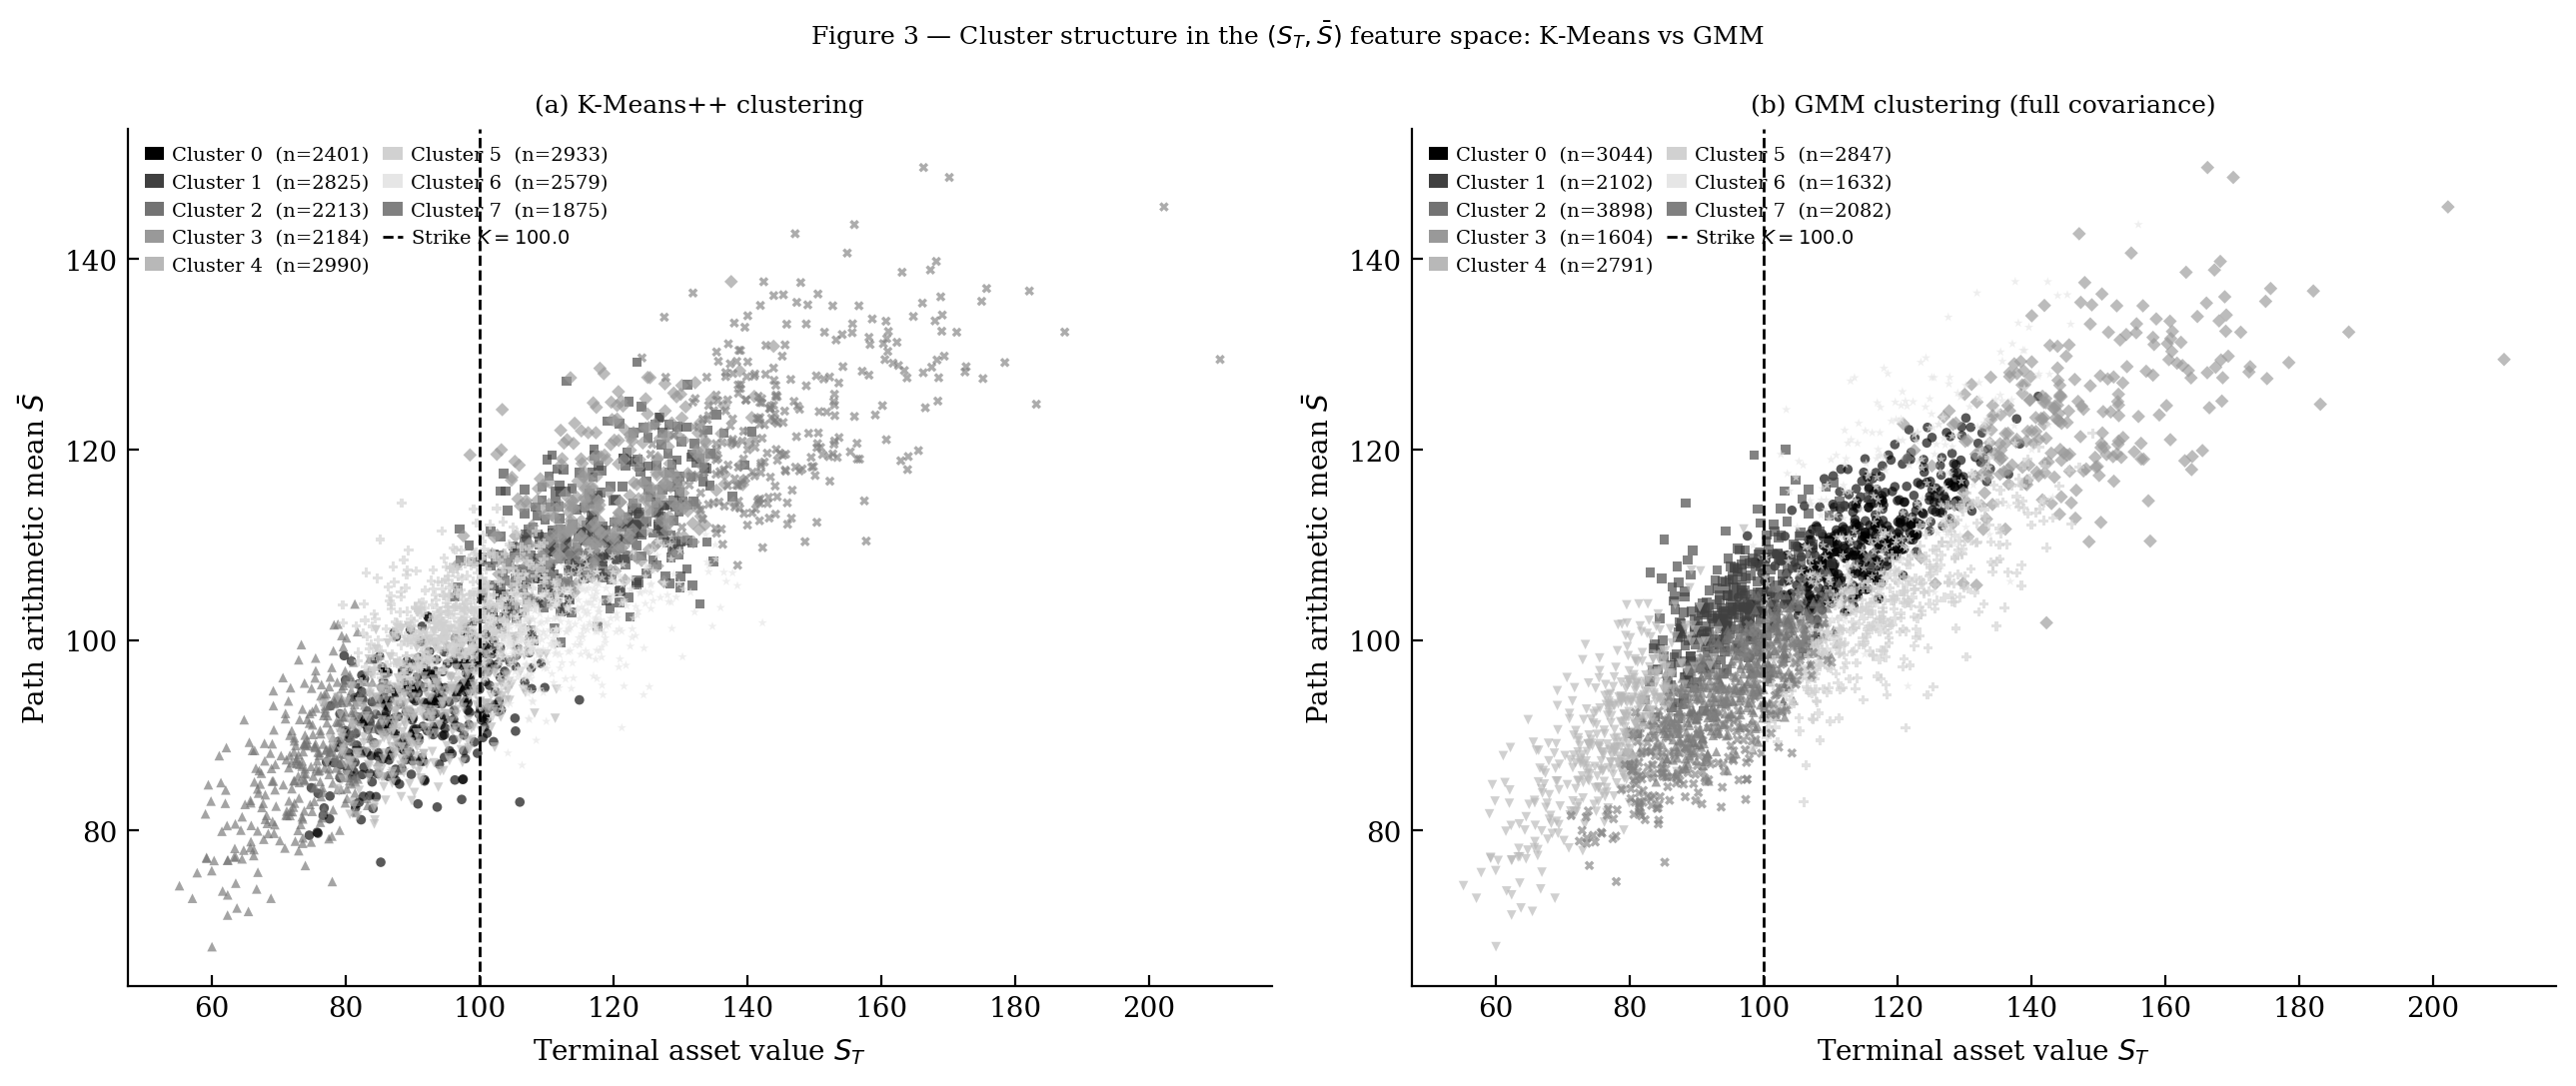
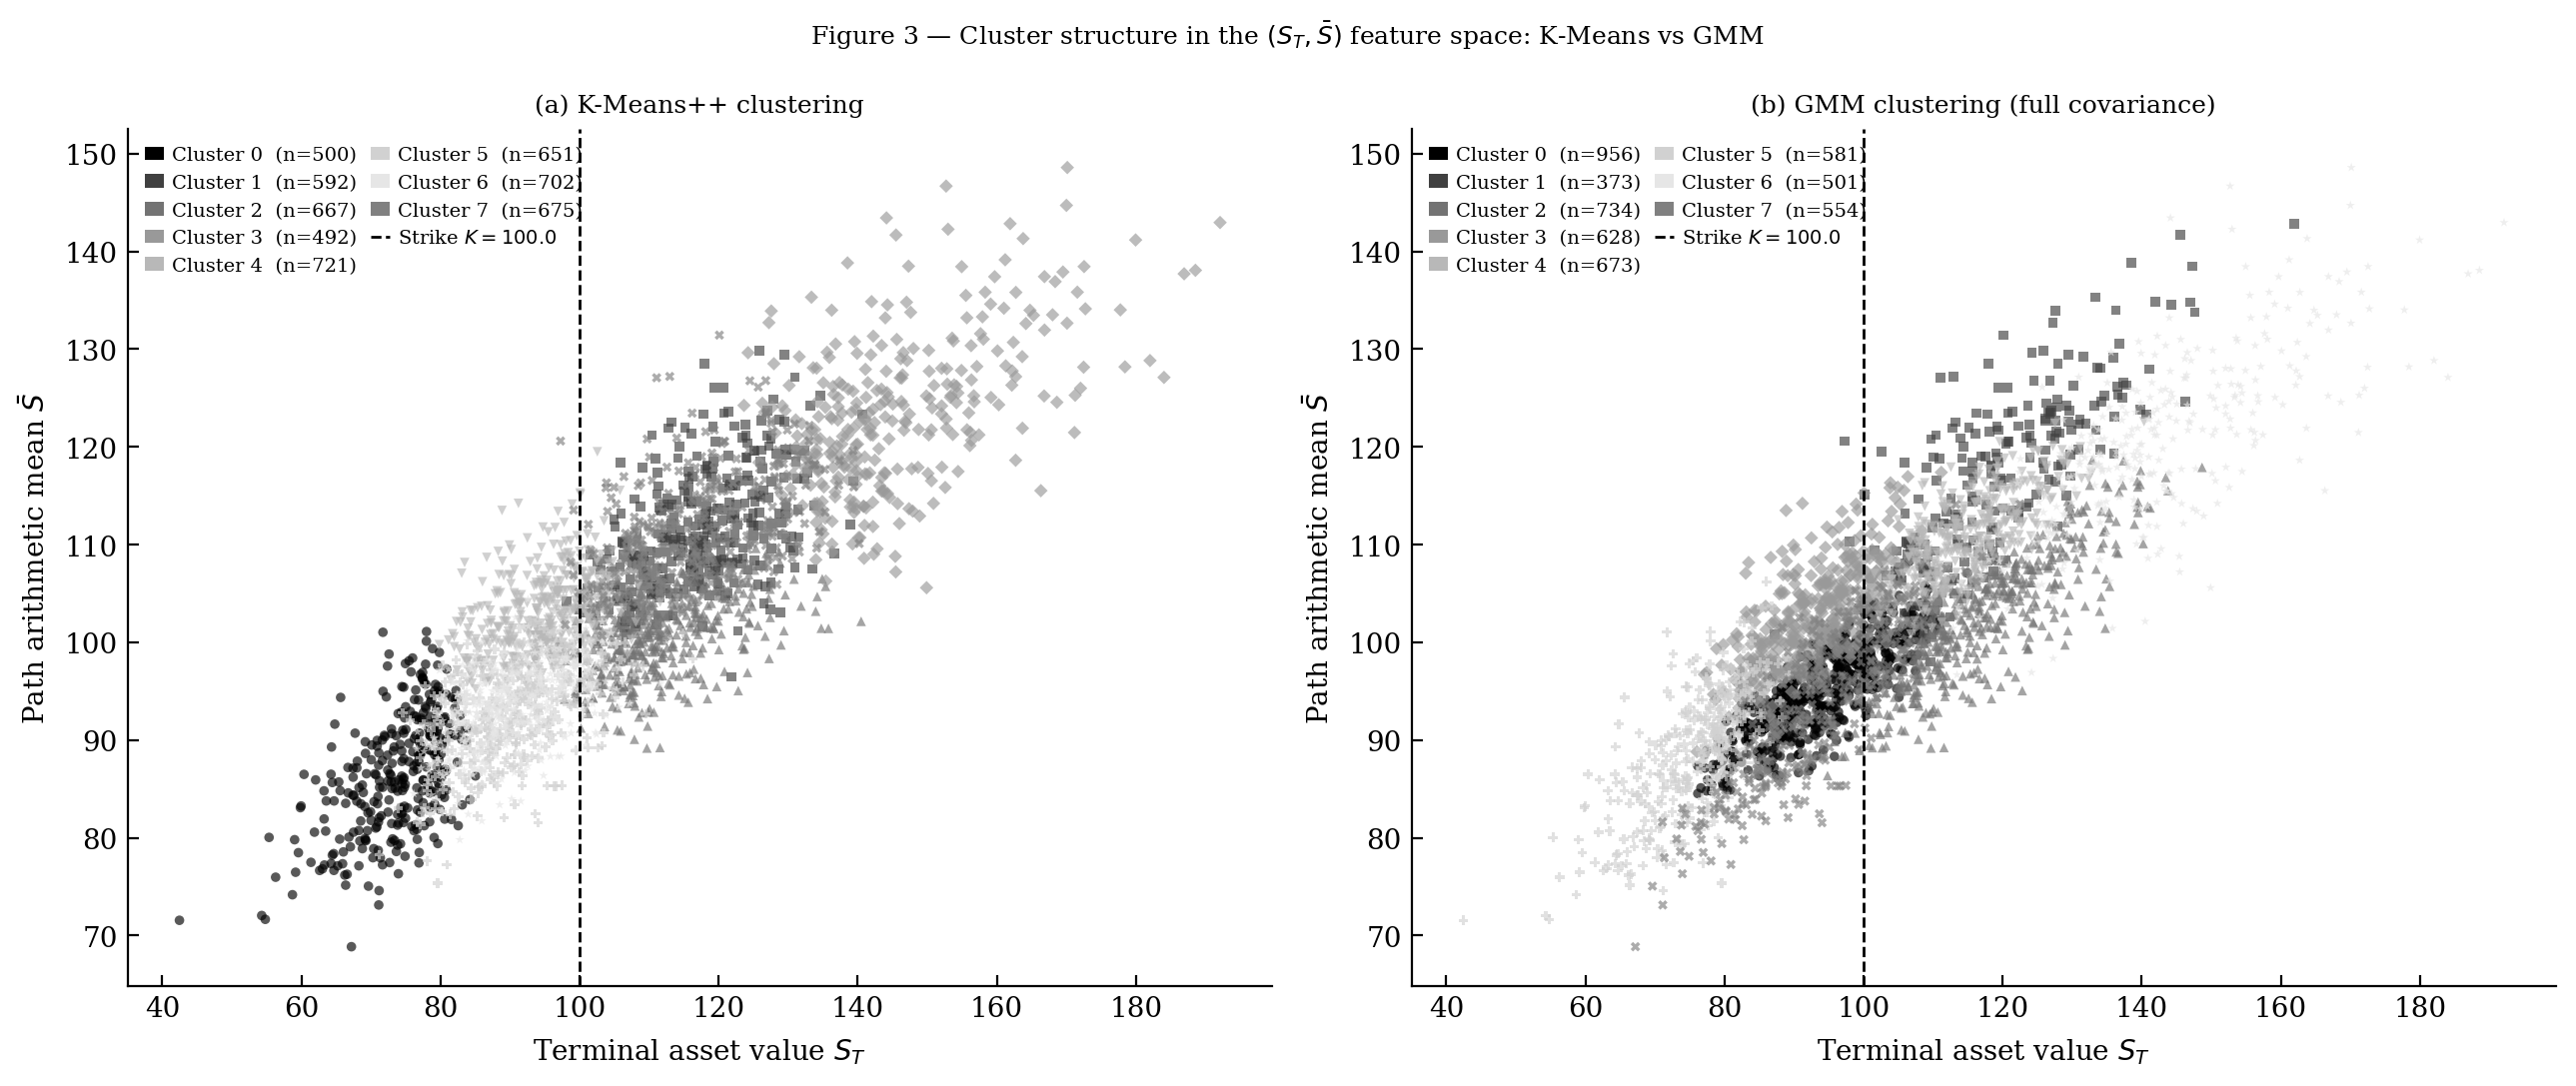
Add generated figures and benchmark results; fix .gitignore

diff --git a/main.py b/main.py
@@ -11,7 +11,7 @@ Date       : June 2026 — VERSION 2 (Publication-ready)
 Module structure
 ----------------
   config.py           — global constants and matplotlib style
-  analytics.py        — Black-Scholes and Heston semi-analytic pricers
+  pricing.py          — Black-Scholes and Heston semi-analytic pricers
   simulation.py       — GBM / Heston Euler / Heston QE path generators
   payoffs.py          — payoff functions (European, Asian, Barrier)
   features.py         — path feature extraction and normalisation
@@ -19,8 +19,8 @@ Module structure
   estimators.py       — plain MC, antithetic, stratified estimators
   control_variates.py — RF and NN control variates
   benchmark.py        — full factorial benchmark engine
-  pipeline.py         — single-config demonstration pipeline
-  figures.py          — all 8 publication figures
+  demo.py             — single-config demonstration pipeline
+  visualization.py    — all 8 publication figures
   main.py             — entry point (parameters + orchestration)
 ==============================================================================
 """
@@ -58,8 +58,8 @@ xi      = 0.30   # vol-of-vol
 rho_h   = -0.70  # spot-vol correlation
 
 # Benchmark parameters
-N_VALUES       = [500, 1_000, 2_000, 5_000, 10_000, 20_000]
-N_REPLICATIONS = 50     # increase to 100-200 for final publication (slow)
+N_VALUES       = [500, 1_000, 2_000]
+N_REPLICATIONS = 5      # increase to 50-200 for final publication (slow)
 K_CLUSTERS     = 8
 
 # =============================================================================
@@ -77,7 +77,7 @@ if __name__ == "__main__":
     print("\n\n>>> PART A: Pipeline demonstration (GBM, European call)\n")
     demo = run_pipeline_demo(
         S0=S0, K=K_STRIKE, r=r, sigma=sigma, T=T, M=M,
-        N_pilot=20_000, N_pricing=20_000, K_clusters=K_CLUSTERS,
+        N_pilot=5_000, N_pricing=5_000, K_clusters=K_CLUSTERS,
         V0=V0, kappa=kappa, theta_h=theta_h, xi=xi, rho_h=rho_h,
     )
 
@@ -141,6 +141,7 @@ if __name__ == "__main__":
         samplers=["prng", "qmc"],
         device="cpu",
         verbose=True,
+        nn_epochs=30,       # increase to 250 for final publication
     )
 
     csv_path = f"{config.OUT_DIR}/benchmark_results.csv"

diff --git a/benchmark.py b/benchmark.py
@@ -127,6 +127,7 @@ def run_global_benchmark(
     samplers: list = None,
     device: str = "cpu",
     verbose: bool = True,
+    nn_epochs: int = 250,
 ) -> pd.DataFrame:
     """
     Full factorial benchmark of all pricing methods across the experiment grid.
@@ -212,7 +213,7 @@ def run_global_benchmark(
                 nn_net, nn_c, nn_mu, _, _ = train_nn_control_variate(
                     X_nn_tr_sc, phi_tr,
                     X_val=X_nn_val_sc, phi_val=phi_val,
-                    n_epochs=250, batch_size=256, lr=1e-3,
+                    n_epochs=nn_epochs, batch_size=256, lr=1e-3,
                     verbose=False, record_loss=True, device=device
                 )
                 if verbose: